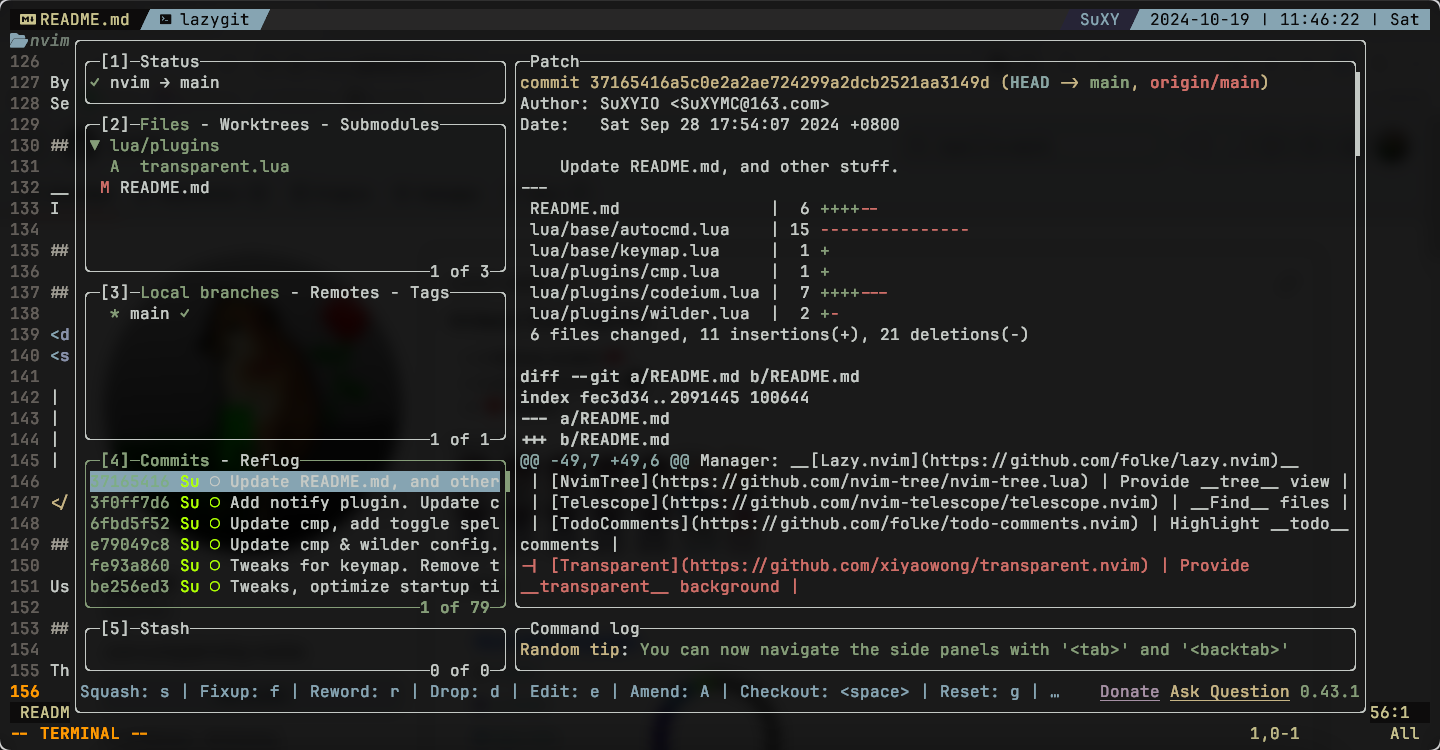
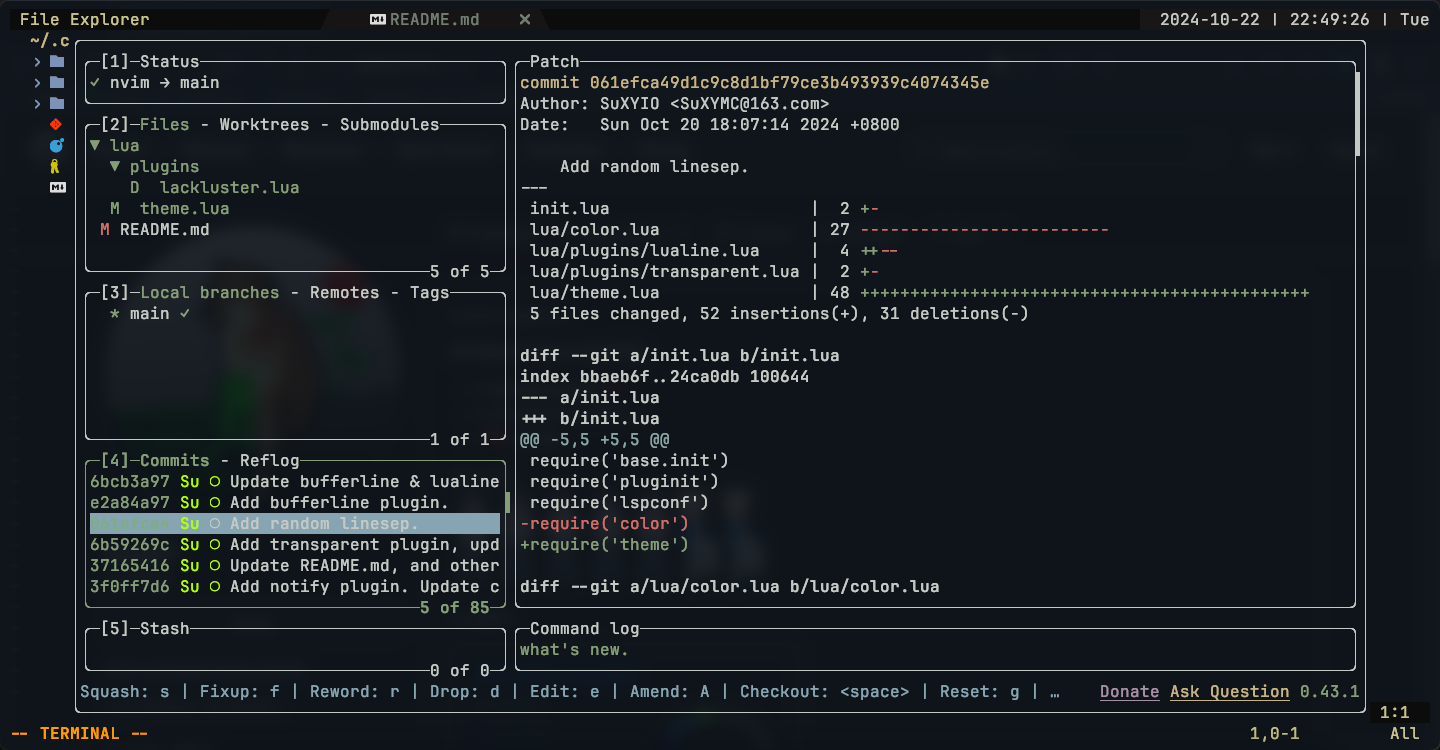
Remove ayu & lackluster colorscheme. Update screenshots.

diff --git a/README.md b/README.md
@@ -9,16 +9,16 @@ _SuXYIO_'s __Neovim__ config.
 <details>
 <summary>Screenshots</summary>
 
-> Editing `Markdown` with _tree view_, _telescope_ on, _lackluster-hack_ colorscheme. 
+> Editing with _tree view_, _telescope_ on, _kanagawa-dragon_ colorscheme. 
 ![Screenshot0](./media/Screenshot0.png)
 
-> Editing `C` source file checking for function _definition_, _duskfox_ colorscheme. 
+> Editing source checking for function _definition_, _outline_ on, _duskfox_ colorscheme. 
 ![Screenshot1](./media/Screenshot1.png)
 
-> Editing `Lua` with _lazygit_ window on, _kanagawa-dragon_ colorscheme. 
+> Editing with _lazygit_, _tree view_ on, _kanagawa-dragon_ colorscheme. 
 ![Screenshot2](./media/Screenshot2.png)
 
-> Editing `C` with _code diagnostic_ on, _ayu-dark_ colorscheme. 
+> Editing source with _code diagnostic_ on, _catppuccin-mocha_ colorscheme. 
 ![Screenshot3](./media/Screenshot3.png)
 
 </details>
@@ -118,11 +118,11 @@ __Note__: The single __characters__ here are all __capital__, which represents t
 
 ### Colorscheme
 
-- [Ayu](https://github.com/Shatur/neovim-ayu)
-- [Catppuccin](https://github.com/catppuccin-mocha)
-- [Kanagawa](https://github.com/rebelot/kanagawa.nvim)
-- [Lackluster](https://github.com/slugbyte/lackluster.nvim)
-- [Nightfox](https://github.com/EdenEast/nightfox.nvim)
+| Colorscheme |
+| ----------- |
+| [Catppuccin](https://github.com/catppuccin-mocha) |
+| [Kanagawa](https://github.com/rebelot/kanagawa.nvim) |
+| [Nightfox](https://github.com/EdenEast/nightfox.nvim) |
 
 #### theme change
 
